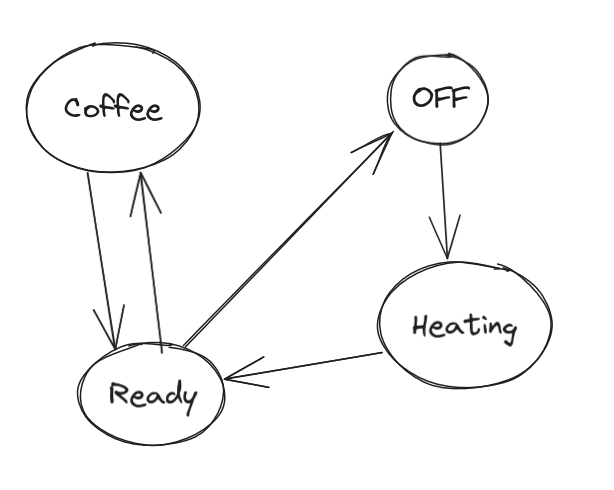
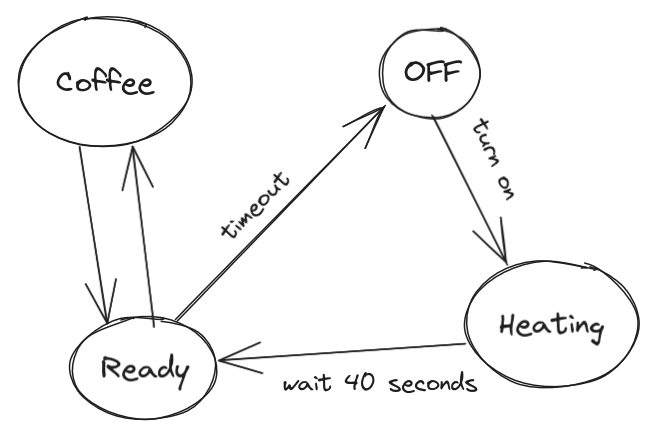
coffee

diff --git a/dumb2smart/coffee_machine.md b/dumb2smart/coffee_machine.md
@@ -21,7 +21,7 @@ detect power usage from smart plug, above a certain value we know machine is in 
 
 # Usage Monitoring - State sensor
 
-![img_5.png](img_5.png)
+![img.png](img.png)
 
 - turn on smart plug -> heating
 - after 40 seconds -> ready
